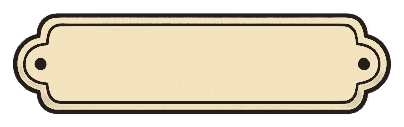
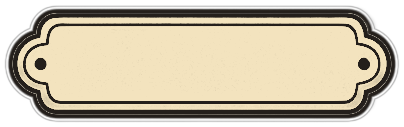
fix(asset): 코인 명판 스트로크 두께 아이콘과 맞춤(검 두껍게·흰 얇게)
- 기존: 흰 8px/검 4px (아이콘과 반대) → 아이콘 실측(흰3/검8) 맞춰 재생성
- 검은 링 바깥 4px 추가(합 ~8px) + 흰 링 3px, cv2 타원팽창 AA
- BUILD 0.0.186

Changed region(s): [[0.0, 0.0472, 1.0, 0.9685]]

diff --git a/docs/STATUS.md b/docs/STATUS.md
@@ -4,10 +4,11 @@
 > 기획 챗은 이 문서를 보고 "지금 실제로 뭐가 돌아가는지" 파악한 뒤 신 기획을 이어가면 됩니다.
 > **갱신 주체**: 개발(Claude Code)이 커밋할 때마다 같이 업데이트. **기획서 원본은 챗이 주인.**
 
-- **현재 버전**: `0.0.185`  (버전 체계 `X.Y.Z`: X=출시·대폭변경 / Y=막 완성·큰 이벤트(`0.1.0`=1막 완전 완성) / Z=자잘한 업데이트마다 +1, 99→100 자리올림 없음. `1.0.0`=3막 완성 첫 출시. CLAUDE.md "버전 체계" 참조)
+- **현재 버전**: `0.0.186`  (버전 체계 `X.Y.Z`: X=출시·대폭변경 / Y=막 완성·큰 이벤트(`0.1.0`=1막 완전 완성) / Z=자잘한 업데이트마다 +1, 99→100 자리올림 없음. `1.0.0`=3막 완성 첫 출시. CLAUDE.md "버전 체계" 참조)
 - **라이브(웹)**: https://orylo.github.io/home-purrtect/
 - **엔진**: Godot 4.6.3 / 출시 타깃: iOS 먼저 → 안드로이드
 - **마지막 갱신**: 2026-06-06
+- **✅ 코인 명판 스트로크 두께 아이콘과 맞춤(2026-06-06, v0.0.186)**: `coin_plate.png` 재생성 — 흑/백 스트로크가 홈 아이콘과 반대(흰 8px·검 4px)였던 걸 측정해 교정. 아이콘 실측(coin·prep = 흰 ~3px/검 ~8px)에 맞춰 **검은 링 바깥 4px 추가(+명판 자체 테두리 ≈ 합 8px)·흰 링 3px**로 재합성(cv2 타원팽창 AA, 합성순서 흰→검→명판). 검증: 재임포트·home 무에러·시각확인.
 - **✅ 명판 버튼 새 드로우 로직으로 재작성(2026-06-06, v0.0.185)**: 메인 버튼이 옛 `StyleBoxTexture`(세로 9-slice)라 버튼 높이≠텍스처 비율일 때 리벳이 세로로 늘어나던 문제 → 코인 명판과 동일 규칙으로 재작성. 버튼 배경=투명(`StyleBoxEmpty`, 글자만), 뒤에 **`_SignPlate`**(`show_behind_parent`)가 텍스처를 **세로=전체 균일 스케일 / 가로=9-slice**(draw_texture_rect_region 좌캡/우캡/중앙)로 직접 그림. hover/pressed/disabled는 plate가 부모 `get_draw_mode()` 폴링해 modulate. 검증: start 무에러·PIL NEW vs OLD 비교(리벳 정원 유지). (사용처=시작화면 게임시작 버튼)
 - **✅ 코인칸 숫자 리벳 침범·세로쏠림 버그픽스(2026-06-06, v0.0.184)**: ① 코인 적을 때 숫자가 우측 리벳에 걸치던 버그 = `_cap_w()`가 `size.y`(set_count 도중 옛값 0)를 읽어 오른쪽 캡 자리를 0으로 잡아 박스가 좁아진 것 → **box_h 기준**으로 변경(헤드리스로 region 음수→정상 확인, 리벳까지 74px 여유). ② 숫자 세로쏠림 = label `offset_top = fsz*0.23`(SB어그로 잉크 위쏠림 보정)으로 시각 중앙. 검증: home 무에러·헤드리스 좌표 실측.
 - **✅ 코인 명판 드로우 규칙 수정 + 외곽선 두껍게(2026-06-06, v0.0.183)**: ① 코인 명판 `_CoinBox` NinePatch 폐기 → **커스텀 `_draw`**: ★세로=이미지 전체 균일 비율 스케일(자른 가운데를 세로로 안 늘림), 가로=9-slice(좌우 캡 고정·가운데만 가로 스트레치). `draw_texture_rect_region` 3분할(좌캡/우캡/중앙), 캡폭=CAP_PX*(box_h/tex_h). 기존 세로 9-slice가 명판 높이<상하캡일 때 찌그러지던 문제 해결. ② **글자 외곽선 전반 두껍게**(design.md §2.2 대비 ~1.6×): `OUTLINE/STROKE` display 8→12·display_s 5→8·title 3→5·num 3→5, `signboard_button` 6→`maxi(8,fs*0.18)`, 클리어타이틀 6→12, 툴팁 제목 4→6. 검증: home/main/start 무에러·PIL 다중사이즈 미리보기.
